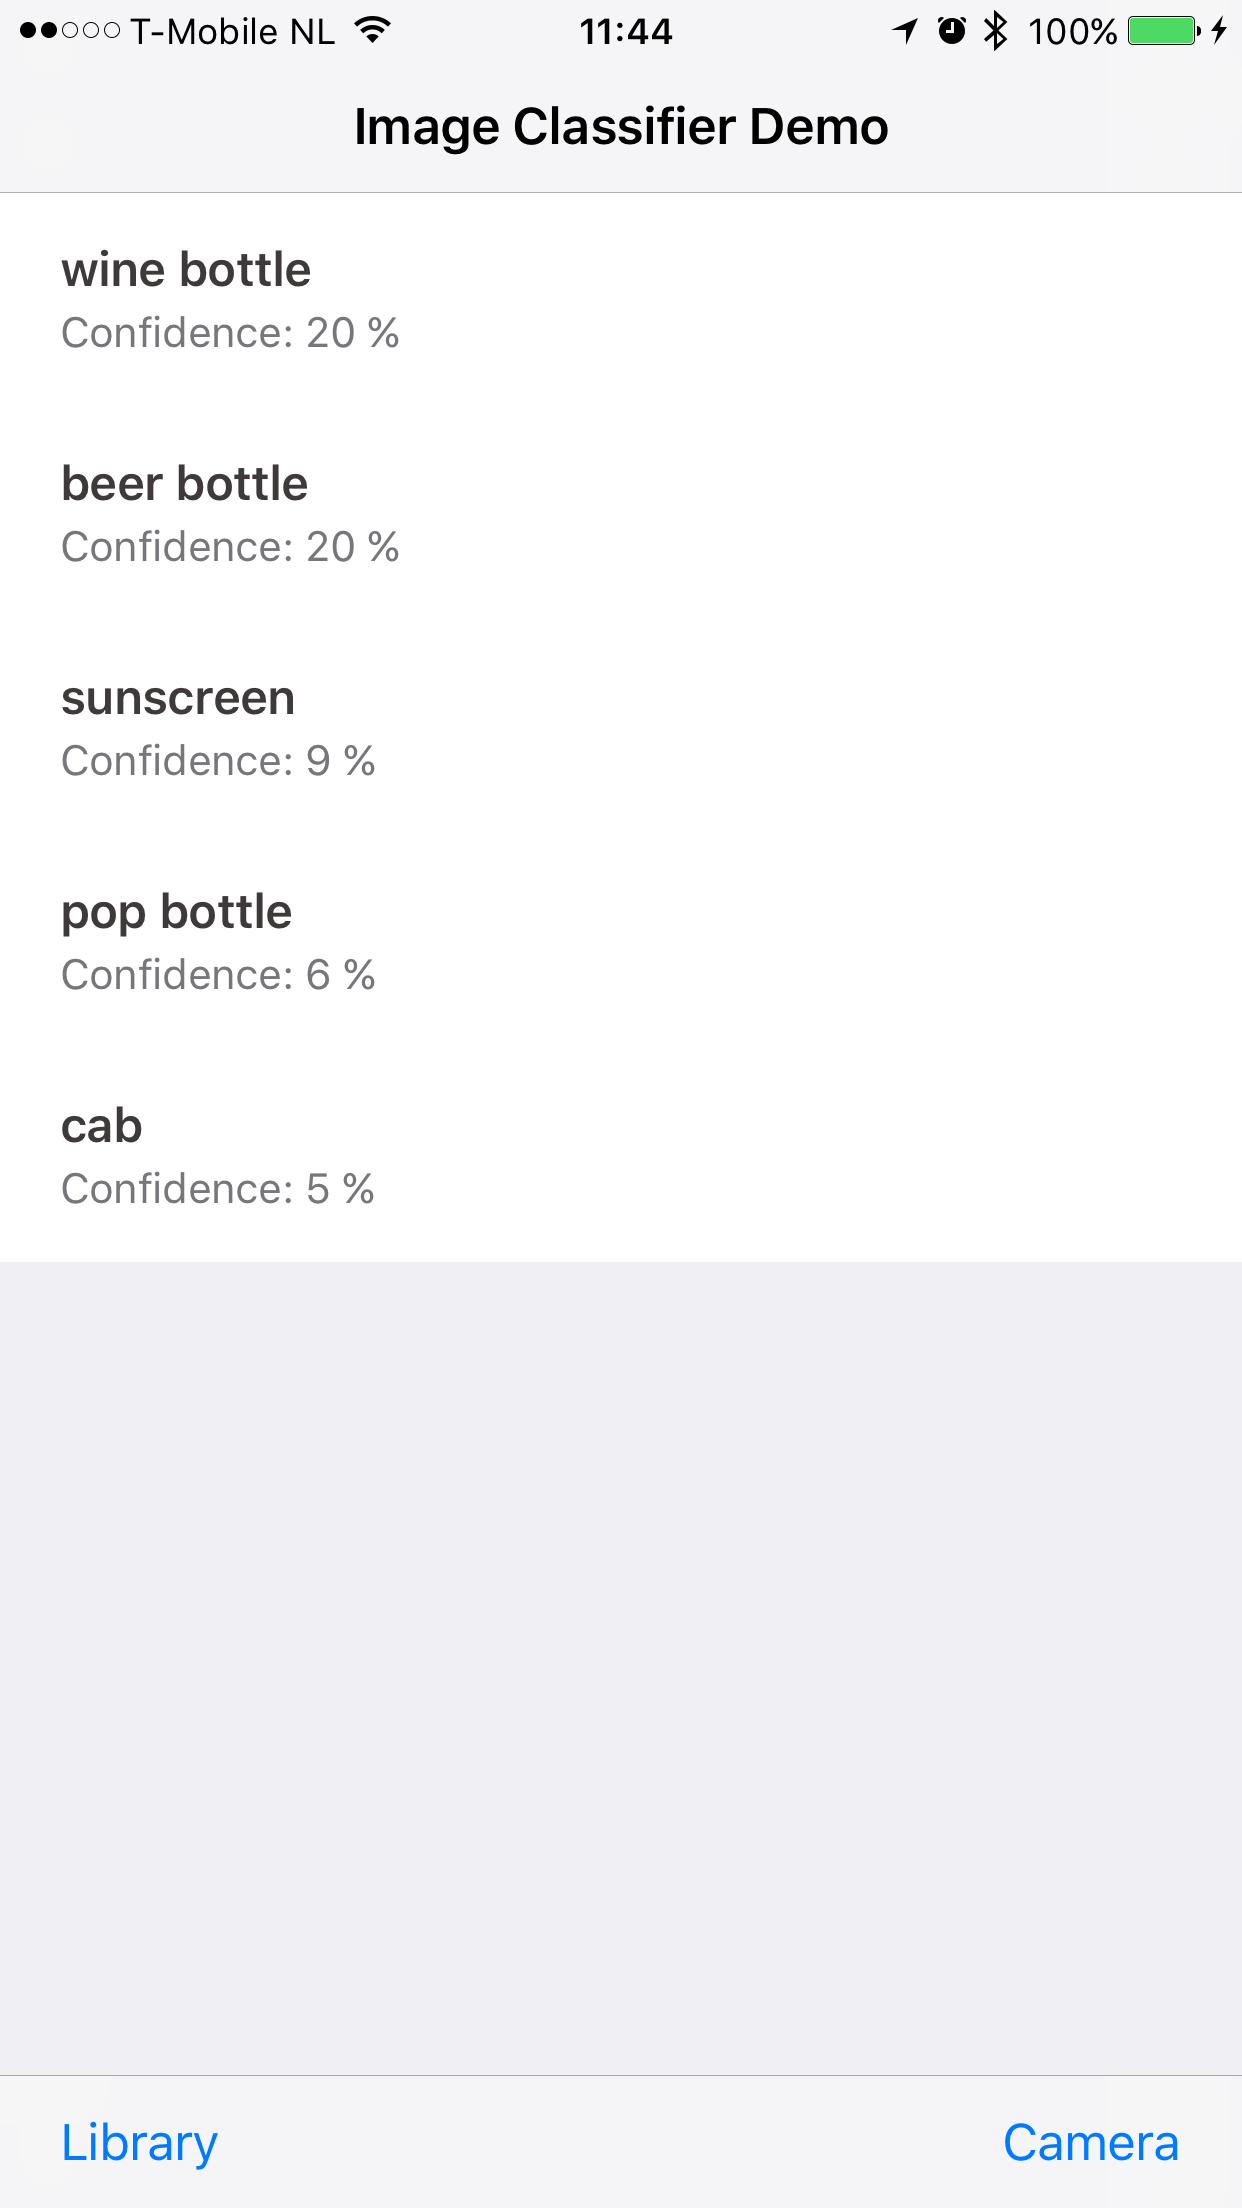
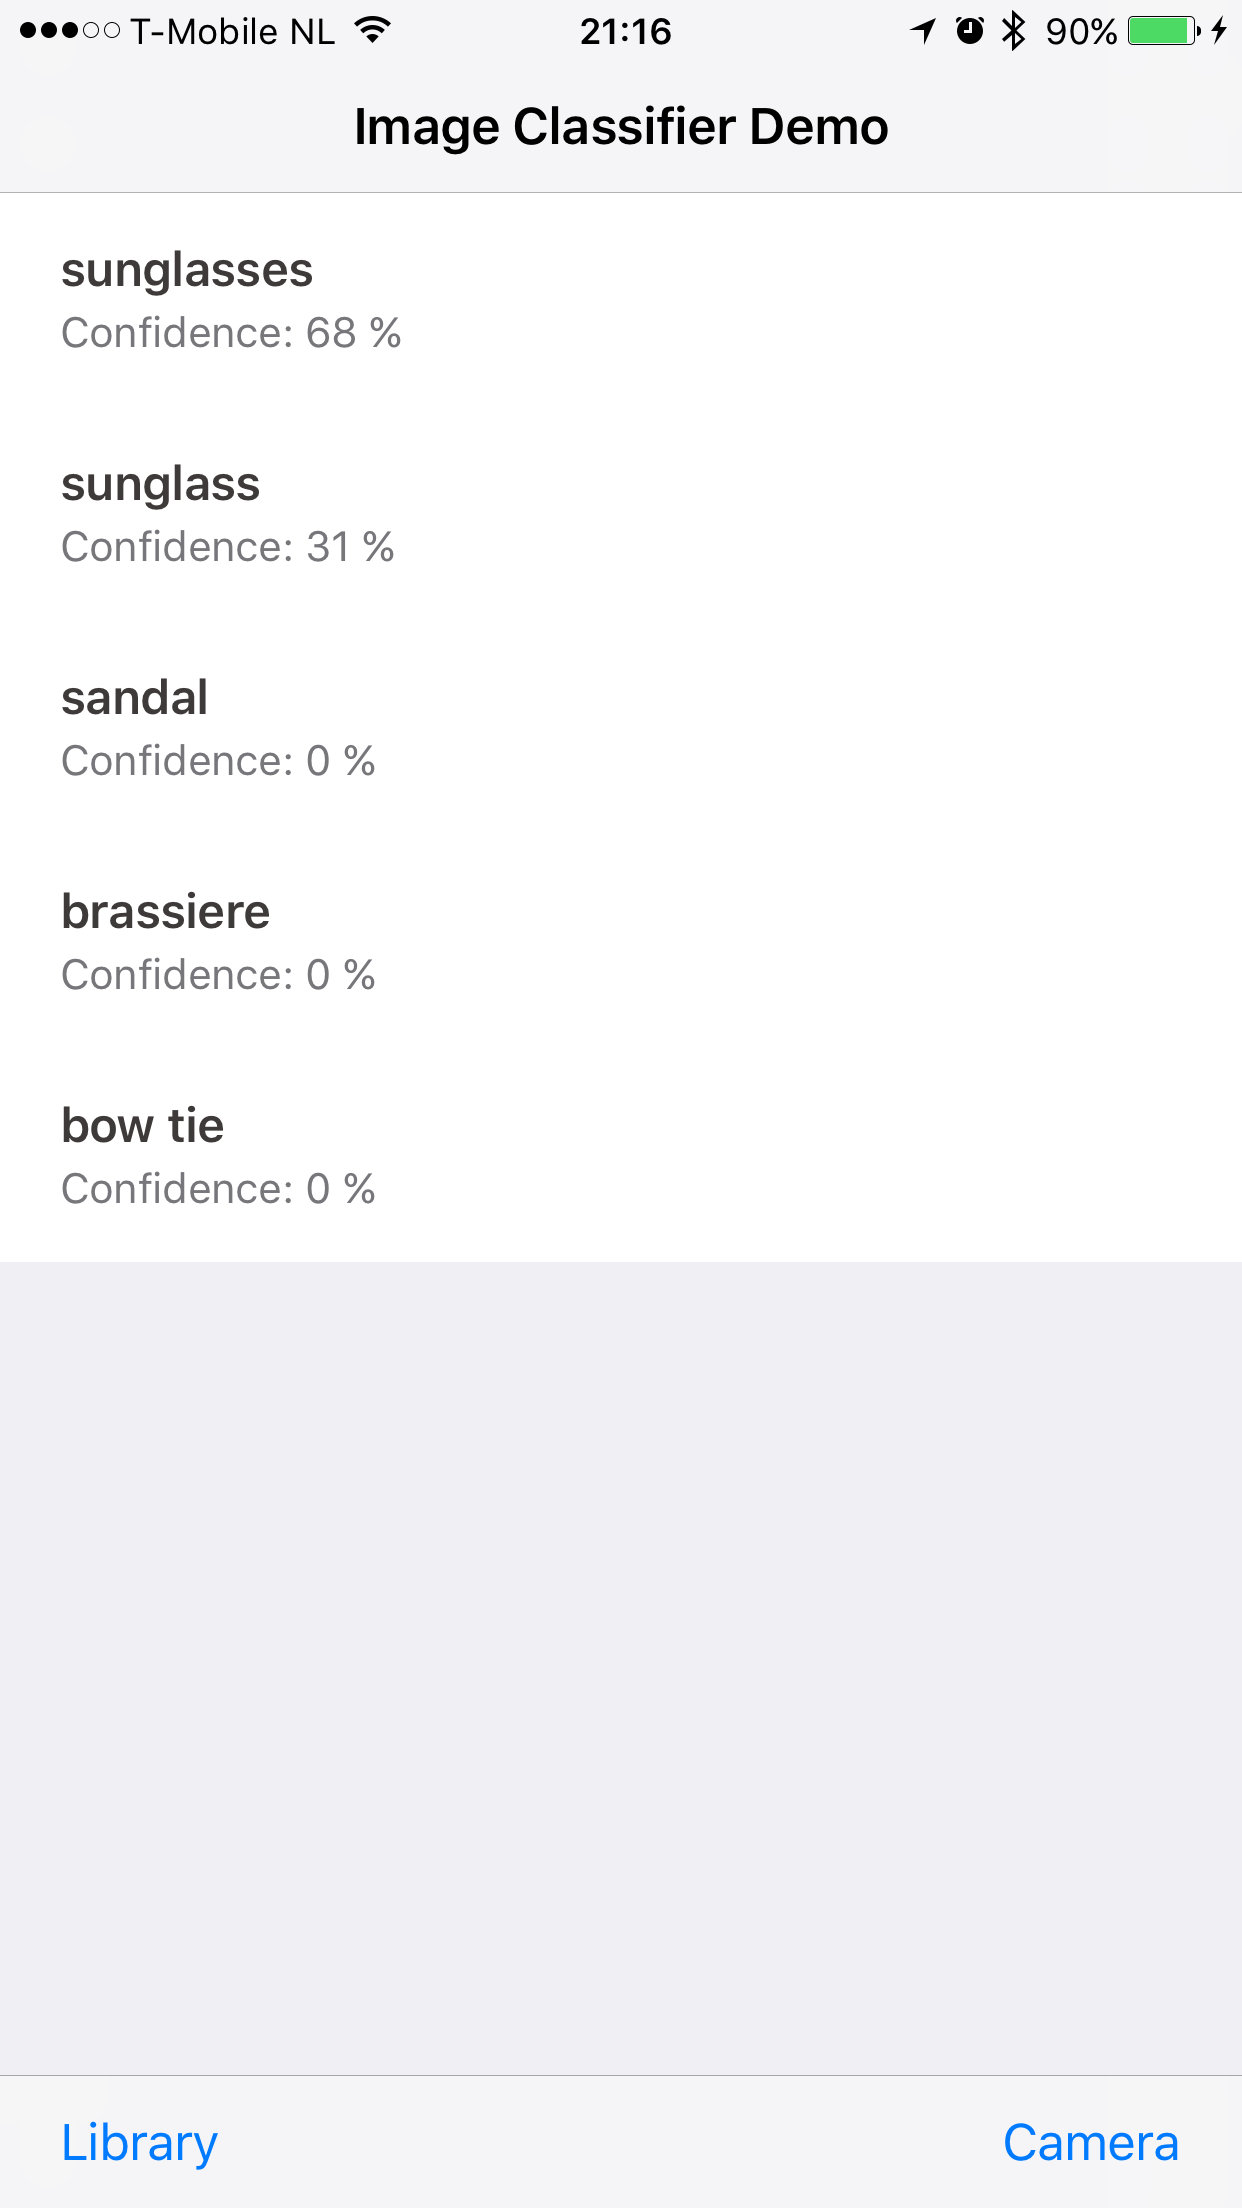
Changed camera image to a more generic one
Changed camera image to a more generic one

diff --git a/tutorials/2017/06/fiori-ios-scpms-apihub/fiori-ios-scpms-apihub.md b/tutorials/2017/06/fiori-ios-scpms-apihub/fiori-ios-scpms-apihub.md
@@ -608,11 +608,11 @@ In this method, the `FUIObjectTableViewCell` with identifier `classificationCell
 
 [ACCORDION-BEGIN [Step 15: ](Build and run the application)]
 
-If you now build and run the application, everything should work end to end now. Take a picture from a not too hard to understand item, for instance a wine bottle:
+If you now build and run the application, everything should work end to end now. Take a picture of a single item, for instance these sunglasses:
 
-![App](fiori-ios-scpms-apihub-26.png)
+![App](fiori-ios-scpms-apihub-26.jpg)
 
-If you now click the **Use Photo** button, the image is now sent to the SAP API Hub REST endpoint, and if all goes well, you should see the JSON response in the console, and the table view is now populated with `FUIObjectTableViewCell` objects displaying the matching classifications, as well as the score as a confidence in percentage:
+If you now click the **Use Photo** button, the image is sent to the SAP API Hub REST endpoint, and if all goes well, you should see the JSON response in the console, and the table view is now populated with `FUIObjectTableViewCell` objects displaying the matching classifications, as well as the score as a confidence in percentage:
 
 ![App](fiori-ios-scpms-apihub-27.png)
 
